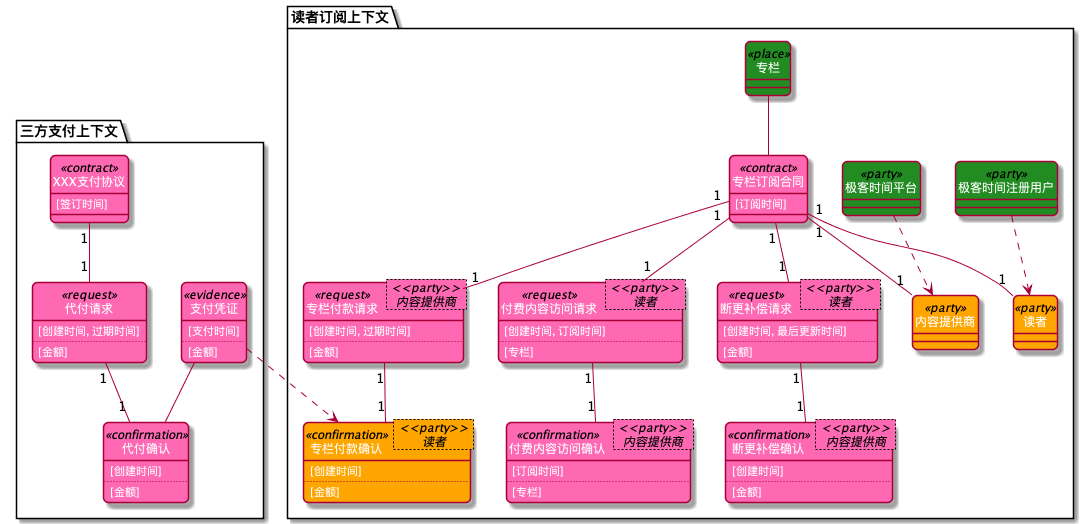
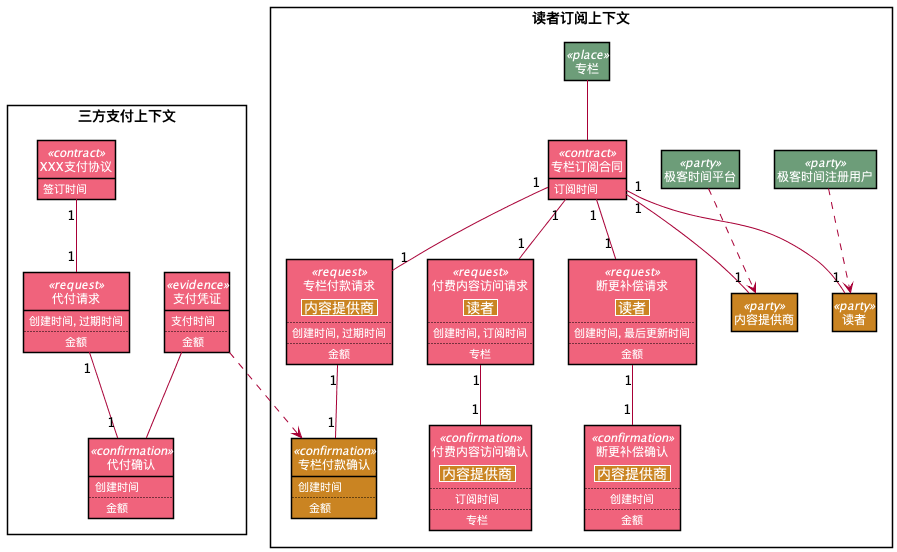
替换readme资

diff --git a/src/main/kotlin/common/Diagram.kt b/src/main/kotlin/common/Diagram.kt
@@ -92,6 +92,21 @@ interface Diagram {
         generateDiagram(filePath)
     }
 
+    fun getClassStyle(): String {
+        return """
+        |skinparam class {
+        |   BorderColor black
+        |   FontColor White
+        |   AttributeFontColor White
+        |   StereotypeFontColor White
+        |}
+        |skinparam defaultTextAlignment center
+        |skinparam style strictuml
+        |skinparam roundCorner 10
+        |hide empty members
+        """.trimIndent()
+    }
+
     private fun generateDiagram(filePath: String): Boolean {
         val plantumlStr = buildPlantUmlString()
         println(

diff --git a/src/main/kotlin/doxflow/diagram_8x_flow.kt b/src/main/kotlin/doxflow/diagram_8x_flow.kt
@@ -49,15 +49,7 @@ object diagram_8x_flow : DSL<diagram_8x_flow>, Diagram, Doc {
      **/
     override fun buildPlantUmlString(): String = """
         |@startuml
-        |skinparam class {
-        |   BorderColor black
-        |   FontColor White
-        |   AttributeFontColor White
-        |   StereotypeFontColor White
-        |}
-        |skinparam defaultTextAlignment center
-        |skinparam style strictuml
-        |hide empty members
+        ${getClassStyle()}
         ${buildPlantUmlContent()}
         |@enduml
         """.trimMargin()

diff --git a/src/main/kotlin/contract/analysis/diagram_contract_analysis.kt b/src/main/kotlin/contract/analysis/diagram_contract_analysis.kt
@@ -28,10 +28,7 @@ object diagram_contract_analysis : DSL<diagram_contract_analysis>, Diagram {
 
     override fun buildPlantUmlString(): String = """
         |@startuml
-        |skinparam classFontColor White
-        |skinparam classAttributeFontColor White
-        |skinparam roundCorner 10
-        |hide circle
+        ${getClassStyle()}
         |${buildPlantUmlContent()}
         |@enduml
         """.trimMargin()
